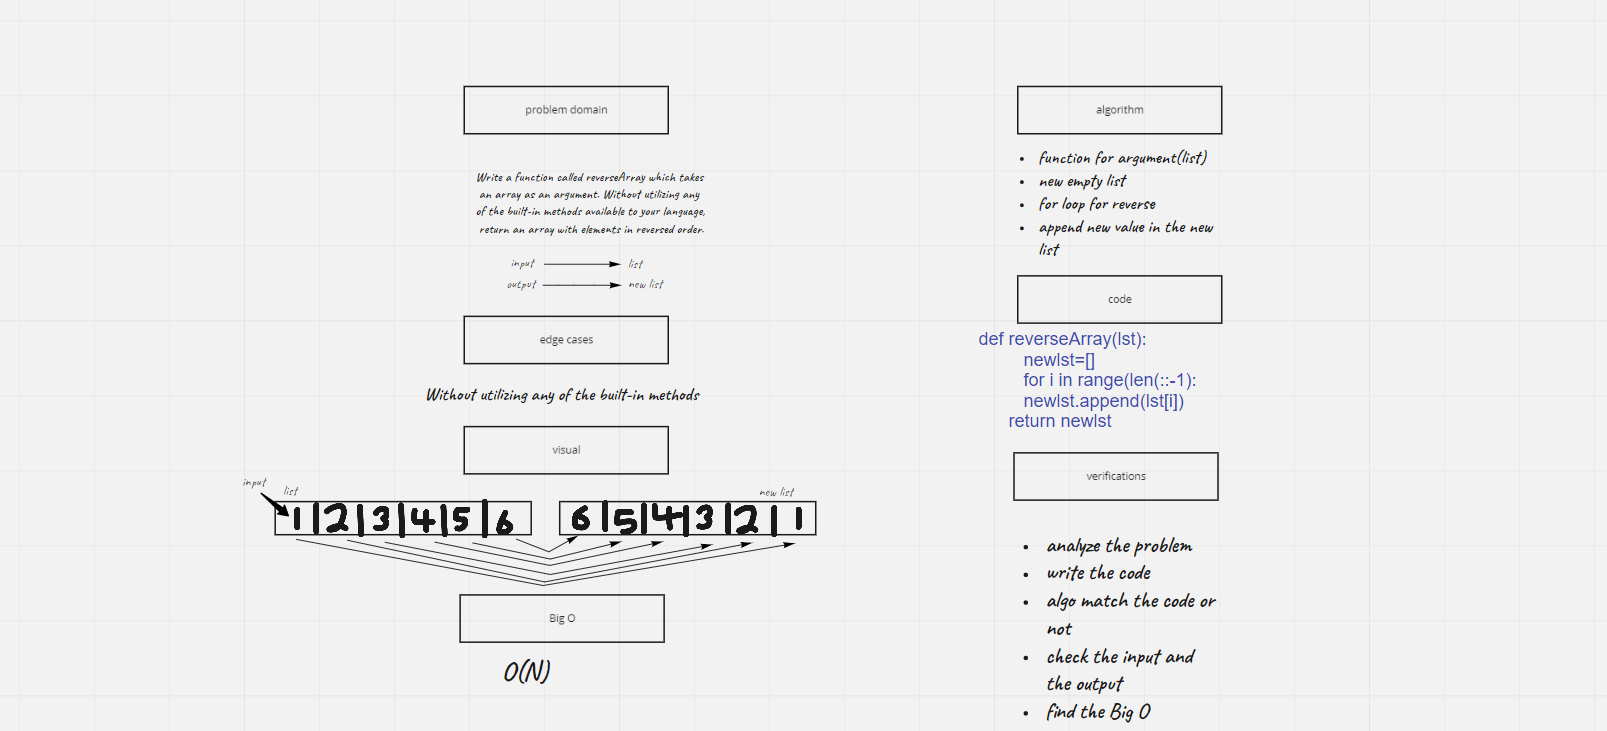
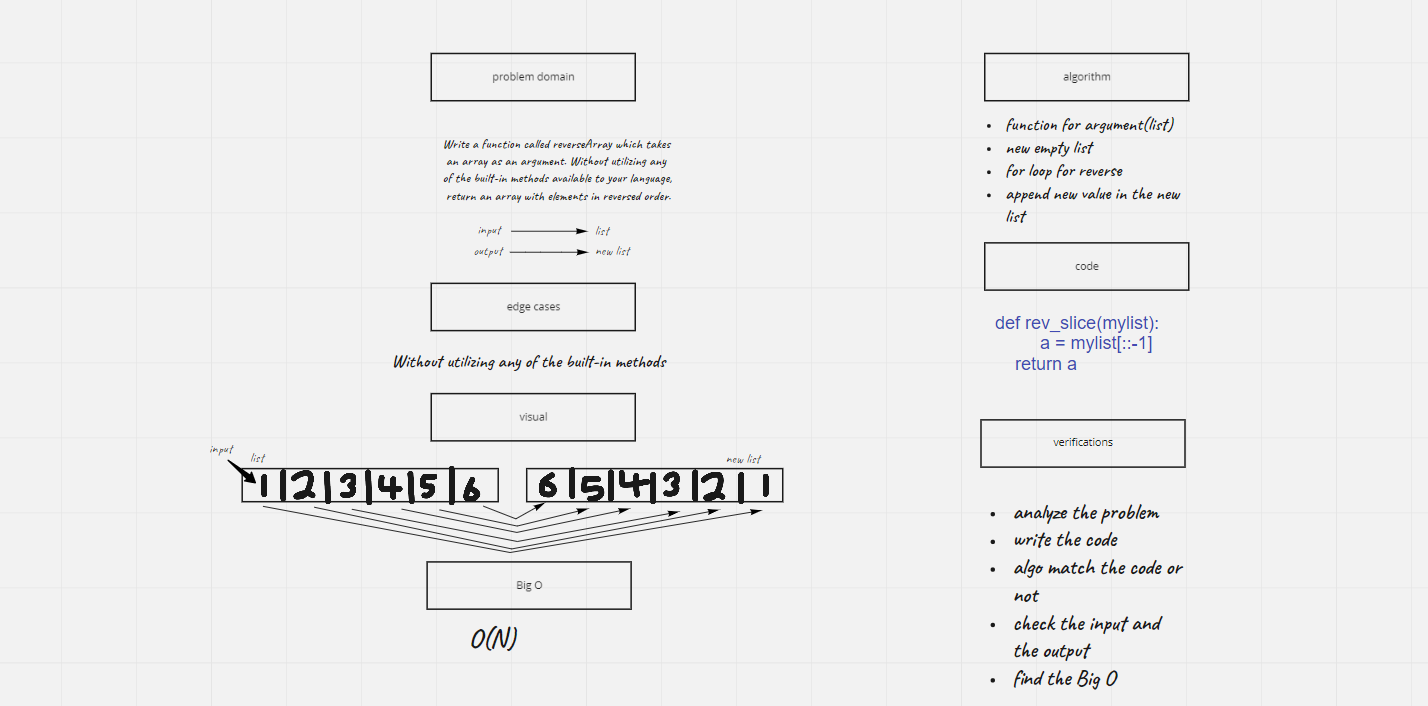
readme

diff --git a/python/code_challenges/array-reverse/README.md b/python/code_challenges/array-reverse/README.md
@@ -1,1 +1,14 @@
+Documentation: Challenge README.md
+# Reverse an Array
+
+Ways to reverse the list .
+
+## Whiteboard Process
+
 ![array-reverse](array-reverse.png)
+
+## Approach & Efficiency
+
+i learned to solve the promblem by using the best selution what ever data i have , to save time and memory .
+
+
